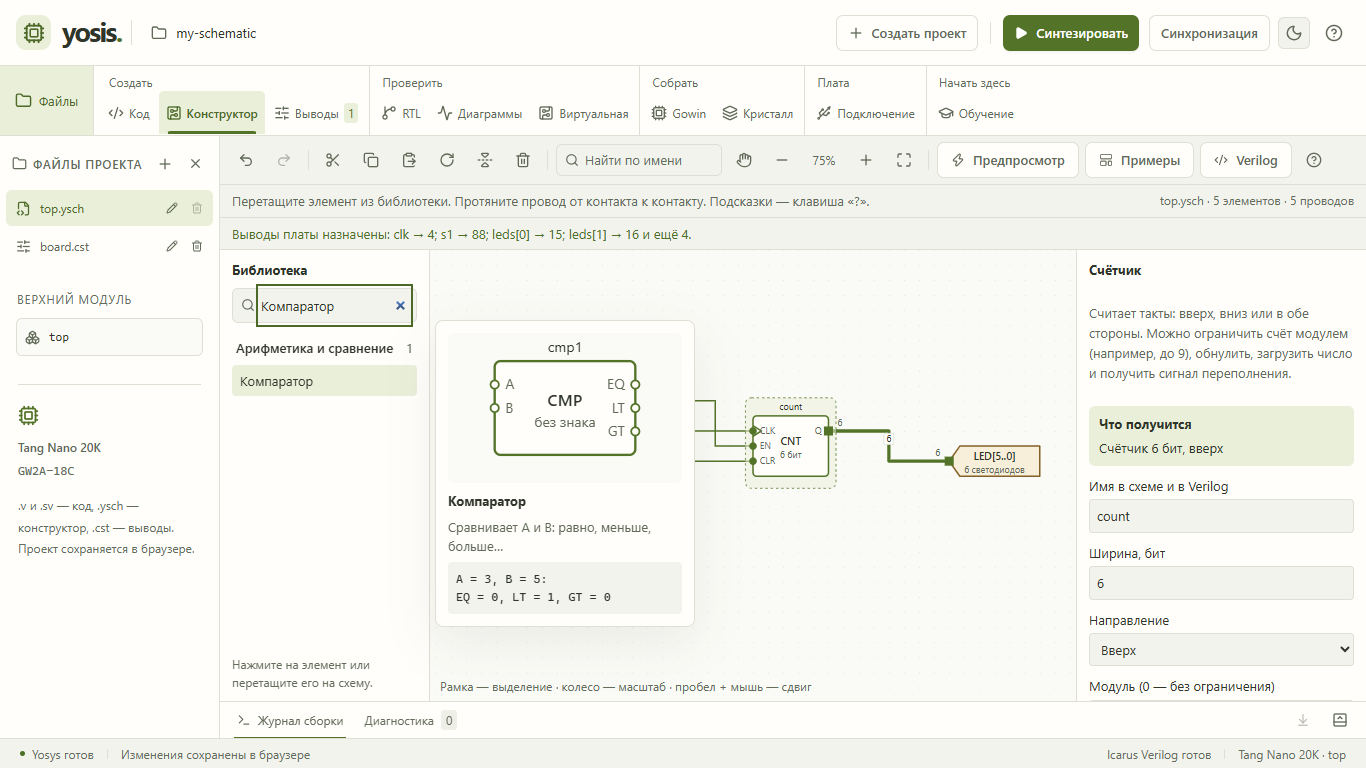
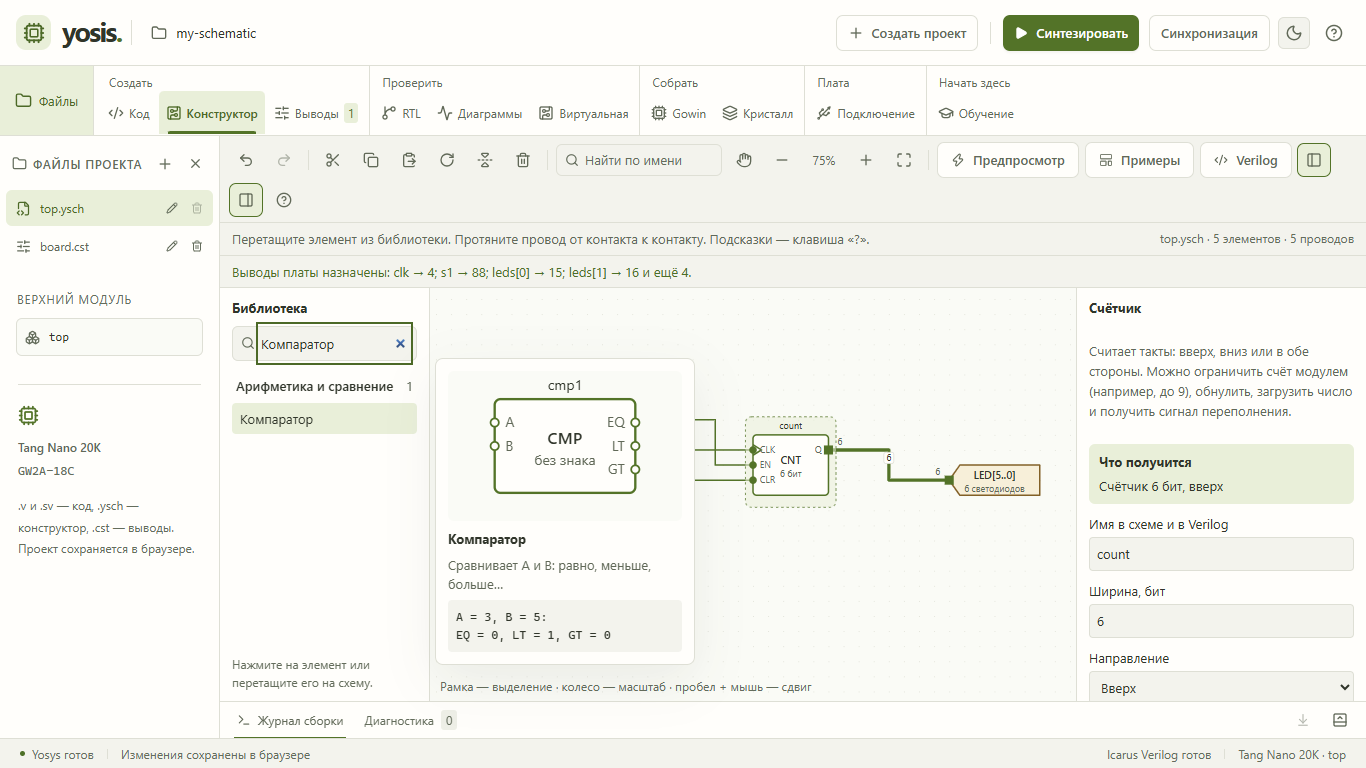
Конструктор: размещение примеров через nextpnr, обновлённые снимки и раскладка примера
- Тест: каждый пример из галереи размещается и трассируется nextpnr с выводами, назначенными редактором.
- Пример «бегущий огонь» перерисован без длинных обходов; снимки обновлены (светлая и тёмная темы, 1366x768 и 1024x700).

diff --git a/tests/circuit-examples.test.ts b/tests/circuit-examples.test.ts
@@ -4,6 +4,7 @@ import { mkdtemp, rm } from 'node:fs/promises';
 import { tmpdir } from 'node:os';
 import path from 'node:path';
 import { BuildManager } from '../server/builds';
+import { PhysicalManager } from '../server/physical';
 import { circuitExamples } from '../shared/circuit-examples';
 import {
   boardAssignments,
@@ -186,5 +187,51 @@ for (const item of circuitExamples)
       const result = await synthesize(project);
       assert.equal(result.status, 'success', `${result.error}\n${result.logs.slice(-3000)}`);
       assert.ok(Object.keys(result.technology!.modules.top.cells).length > 0);
+    },
+  );
+
+for (const item of circuitExamples)
+  test(
+    `example "${item.title}" is placed and routed by nextpnr with the pins assigned by the editor`,
+    { timeout: 300_000 },
+    async (context) => {
+      const directory = await mkdtemp(path.join(tmpdir(), 'yosis-physical-circuit-'));
+      const builds = new BuildManager(path.join(directory, 'builds')),
+        physical = new PhysicalManager(path.join(directory, 'physical'), builds);
+      try {
+        if (!(await physical.health()).available) return context.skip('nextpnr недоступен');
+        const doc = item.build();
+        const base = createWizardProject({ start: 'schematic', name: item.title, top: 'top' });
+        const project: Project = syncBoardConstraints(
+          {
+            ...base,
+            files: base.files.map((file) =>
+              file.name.endsWith('.ysch') ? { ...file, content: JSON.stringify(doc) } : file,
+            ),
+          },
+          null,
+          doc,
+        ).project;
+        let build = await builds.create(project);
+        while (build.status === 'queued' || build.status === 'running') {
+          await new Promise((resolve) => setTimeout(resolve, 200));
+          build = await builds.get(build.id);
+        }
+        assert.equal(build.status, 'success', build.error);
+        let job = await physical.create(project, build.id, {
+          cstFile: project.files.find((file) => file.name.endsWith('.cst'))!.name,
+          frequencyMHz: 27,
+        });
+        while (job.status === 'queued' || job.status === 'running') {
+          await new Promise((resolve) => setTimeout(resolve, 500));
+          job = await physical.get(job.id);
+        }
+        assert.equal(job.status, 'success', `${job.error}\n${job.logs.slice(-2000)}`);
+        assert.ok(job.placed);
+      } finally {
+        await physical.close();
+        await builds.close();
+        await rm(directory, { recursive: true, force: true });
+      }
     },
   );
